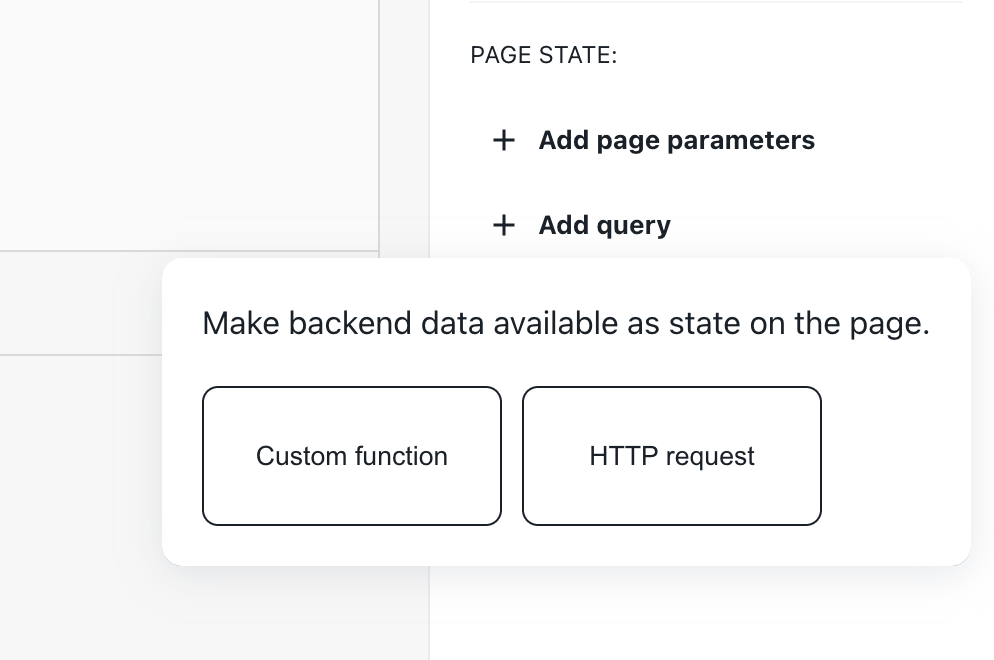
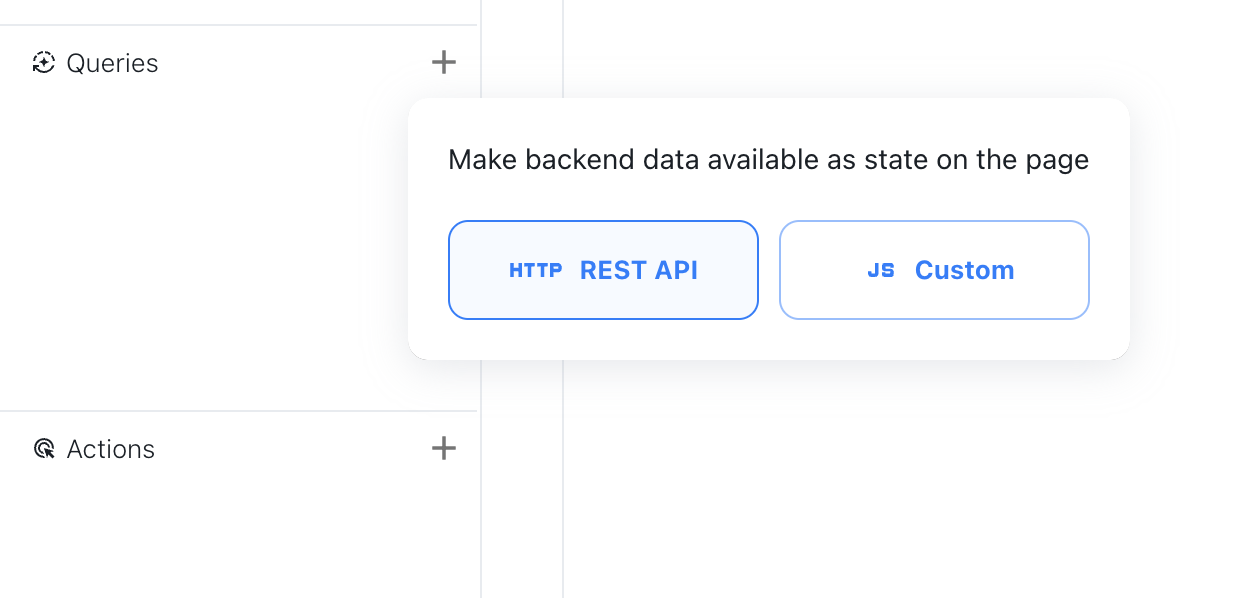
WIP query panel docs update

diff --git a/docs/data/toolpad/getting-started/first-app.md b/docs/data/toolpad/getting-started/first-app.md
@@ -50,13 +50,11 @@ Make sure to [install Node.js](https://nodejs.org/en) on your system.
 
 ### Fetch data
 
-1. Click anywhere inside the canvas (except on the components that you just added) to deselect all components.
+1. Locate the create new button in the queries explorer. Press it and choose **REST API**.
+   00
+   {{"component": "modules/components/DocsImage.tsx", "src": "/static/toolpad/docs/getting-started/first-app/step-2.png", "alt":"Choose REST API", "caption":"The Add query menu", "zoom": false  }}
 
-1. Locate the **Add query** button inside the inspector. Press it and choose **HTTP request**.
-
-{{"component": "modules/components/DocsImage.tsx", "src": "/static/toolpad/docs/getting-started/first-app/step-2.png", "alt":"Choose HTTP request", "caption":"The Add query menu", "zoom": false  }}
-
-3. We'll be using the [dog API](https://dog.ceo/dog-api/) for this tutorial. First give the query a unique name: `dogQuery`. Then, set `https://dog.ceo/api/breeds/list/all` as the **URL**. Click the **Preview** button to inspect the result of this request, and expand the `message` object in the response. If all went well, it will look like this:
+2. We'll be using the [dog API](https://dog.ceo/dog-api/) for this tutorial. Set `https://dog.ceo/api/breeds/list/all` as the **URL**. Click the **Run** button to inspect the result of this request, and expand the `message` object in the response. If all went well, it will look like this:
 
 {{"component": "modules/components/DocsImage.tsx", "src": "/static/toolpad/docs/getting-started/first-app/step-3.png", "alt": "Fetch URL", "caption": "The dog API response", "indent": 1  }}
 
@@ -66,9 +64,13 @@ Make sure to [install Node.js](https://nodejs.org/en) on your system.
    return Object.entries(data.message);
    ```
 
-   in the editor. Click **Preview** again to verify the result.
+   in the editor. Click **Run** again to verify the result.
 
-{{"component": "modules/components/DocsImage.tsx", "src": "/static/toolpad/docs/getting-started/first-app/step-4.png", "alt": "Transform response", "caption": "The dog API response transformed", "indent": 1  }}
+{{"component": "modules/components/DocsImage.tsx", "src": "/static/toolpad/docs/getting-started/first-app/step-4a.png", "alt": "Transform response", "caption": "The dog API response transformed", "indent": 1  }}
+
+5. Click on **Save** to save the query, and then rename it to `dogQuery` via the extended options menu visible on hovering over the saved query in the explorer.
+
+{{"component": "modules/components/DocsImage.tsx", "src": "/static/toolpad/docs/getting-started/first-app/step-4b.png", "alt": "Transform response", "caption": "The dog API response transformed", "indent": 1  }}
 
 ### Bind data to UI
 
@@ -96,7 +98,9 @@ Make sure to [install Node.js](https://nodejs.org/en) on your system.
 
 ### Make the app interactive
 
-1. Now, we can make this app interactive by displaying a random image of the selected breed. We'll create another query which reacts to the selection inside the Data Grid component. Deselect all components and click on **Add query** &rarr; **HTTP request**. Name it "imageQuery" and add a `breed` parameter in the **Parameters** section on the bottom:
+1. Now, we can make this app interactive by displaying a random image of the selected breed. We'll create another query which reacts to the selection inside the Data Grid component.
+
+2. Create another query of the **REST API** type and add a `breed` parameter in the **Parameters** section on the right:
 
 {{"component": "modules/components/DocsImage.tsx", "src": "/static/toolpad/docs/getting-started/first-app/step-8.png", "alt": "Breed parameter", "caption": "Editing imageQuery", "indent": 1  }}
 
